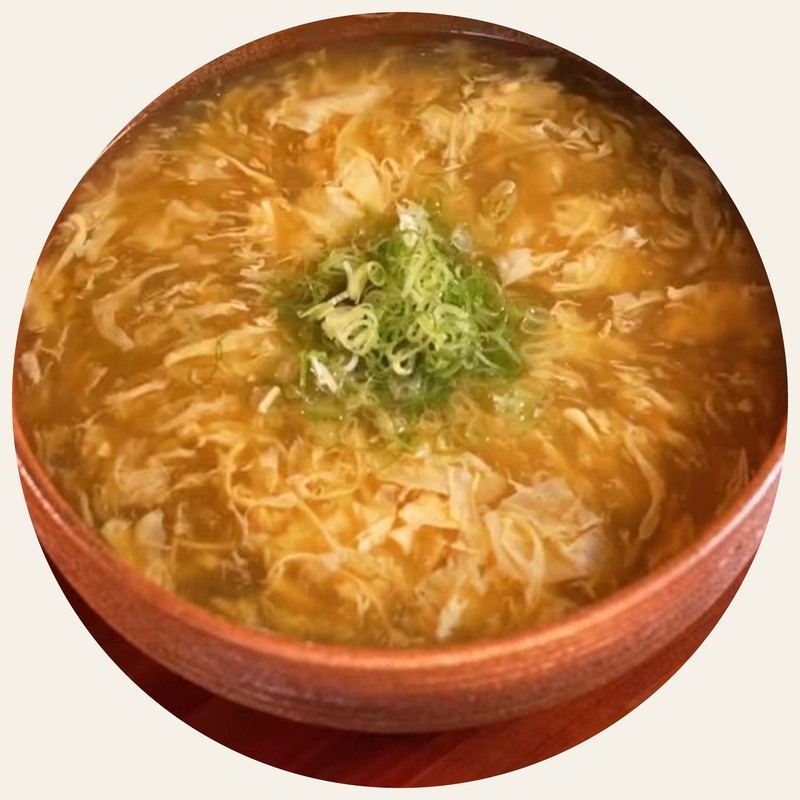
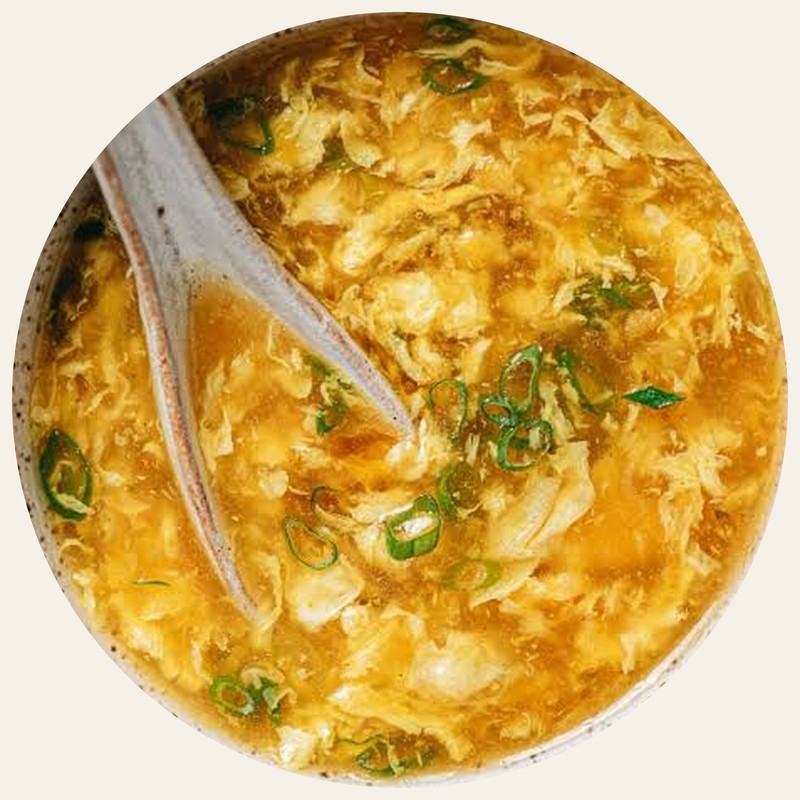
Add photos for 18 more recipes, replace two existing
Picks up the twenty loose images from ~/developer and runs them through
the same circular-cut-out pipeline, so all 25 photographed recipes share
one cream background. Kimchi ramen and egg drop soup had photos already;
both files and their alt text are replaced with the new shots.

Most sat well at the default 1.15 zoom. The three glass-served dishes
(smoothie, mango jam, custard) and the angled silken tofu plate needed
1.38-1.75 to push the surrounding table out of the circle.

Fluffy pancakes is the only recipe still without a photo.

diff --git a/index.html b/index.html
@@ -1478,6 +1478,8 @@
         difficulty: "Easy",
         icon: "soup",
         dysphagia: 3,
+        image: "assets/butternut-squash-bisque",
+        imageAlt: "A bowl of smooth orange butternut squash bisque, swirled with cream and scattered with herbs.",
         color: "#D4A574",
         ingredients: [
           { amount: "2 lbs", item: "Butternut squash, peeled and cubed", note: "Pre-cut squash works well to save time" },
@@ -1529,6 +1531,8 @@
         difficulty: "Easy",
         icon: "soup",
         dysphagia: 5,
+        image: "assets/chicken-golden-soup",
+        imageAlt: "A golden bowl of chicken soup with tiny pastina pasta, shredded chicken and fresh herbs.",
         color: "#D4A574",
         ingredients: [
           { amount: "1 lb", item: "Boneless, skinless chicken breasts" },
@@ -1581,6 +1585,8 @@
         difficulty: "Easy",
         icon: "apple",
         dysphagia: 6,
+        image: "assets/baked-cinnamon-apples",
+        imageAlt: "Soft baked cinnamon apple slices in a bowl, topped with a scoop of melting ice cream.",
         color: "#CD5C5C",
         ingredients: [
           { amount: "4 large", item: "Firm-sweet apples", note: "Honeycrisp, Fuji, or Gala work best" },
@@ -1630,6 +1636,8 @@
         difficulty: "Intermediate",
         icon: "custard",
         dysphagia: 4,
+        image: "assets/vanilla-bean-custard",
+        imageAlt: "A glass of pale vanilla custard topped with fresh strawberries, raspberries and a blueberry.",
         color: "#F4E4C1",
         ingredients: [
           { amount: "4 large", item: "Eggs" },
@@ -1681,6 +1689,8 @@
         difficulty: "Easy",
         icon: "lamb",
         dysphagia: 6,
+        image: "assets/lamb-stew-tomatoes",
+        imageAlt: "A dark, rich lamb stew in tomato sauce with tender chunks of meat.",
         color: "#8B4513",
         ingredients: [
           { amount: "2 lbs", item: "Lamb leg roast, boneless", note: "Cut into 1-inch cubes. Boneless is worth insisting on here — loose bone fragments are hard to spot in a dark tomato sauce" },
@@ -1737,6 +1747,8 @@
         difficulty: "Easy",
         icon: "soup",
         dysphagia: 3,
+        image: "assets/cream-of-mushroom-soup",
+        imageAlt: "A bowl of creamy mushroom soup topped with sauteed mushroom slices and chopped parsley.",
         color: "#8B7355",
         ingredients: [
           { amount: "10", item: "Cremini mushrooms", note: "Cleaned with a kitchen towel" },
@@ -1837,6 +1849,8 @@
         difficulty: "Intermediate",
         icon: "potato",
         dysphagia: 4,
+        image: "assets/joel-robuchon-mashed-potatoes",
+        imageAlt: "A bowl of ultra-smooth pale mashed potatoes finished with a swirled surface.",
         color: "#D6B85A",
         ingredients: [
           { amount: "1 kg", item: "Potatoes" },
@@ -1942,7 +1956,7 @@
         icon: "soup",
         dysphagia: 5,
         image: "assets/chinese-egg-drop-soup",
-        imageAlt: "A rustic bowl of golden Chinese egg drop soup with silky egg ribbons and a small pile of chopped scallions in the center.",
+        imageAlt: "A pale bowl of golden egg drop soup with silky egg ribbons and sliced scallions, a spoon resting in it.",
         color: "#C98F3A",
         ingredients: [
           { amount: "1", item: "Whole chicken or chicken pieces", note: "For the stock; a weight wasn't specified in the source" },
@@ -1994,7 +2008,7 @@
         icon: "pasta",
         dysphagia: 7,
         image: "assets/kimchi-ramen",
-        imageAlt: "A red bowl of kimchi ramen with sliced pork belly, noodles, halved soft-boiled eggs, and scallions, held in two hands.",
+        imageAlt: "A bowl of kimchi ramen in red broth with noodles, a soft egg yolk and sliced scallions.",
         color: "#B23A2E",
         ingredients: [
           { amount: "100 ml", item: "Canola oil" },
@@ -2090,6 +2104,8 @@
         difficulty: "Easy",
         icon: "beef",
         dysphagia: 6,
+        image: "assets/classic-meatloaf",
+        imageAlt: "A ketchup-glazed meatloaf, sliced to show its tender interior, garnished with parsley.",
         color: "#7A4632",
         ingredients: [
           { amount: "2 large", item: "Eggs" },
@@ -2146,6 +2162,8 @@
         difficulty: "Easy",
         icon: "pasta",
         dysphagia: 6,
+        image: "assets/stovetop-mac-and-cheese",
+        imageAlt: "A bowl of creamy stovetop macaroni cheese, glossy with sauce.",
         color: "#E3A857",
         ingredients: [
           { amount: "3 cups", item: "Macaroni or medium shell noodles" },
@@ -2191,6 +2209,8 @@
         difficulty: "Easy",
         icon: "tofu",
         dysphagia: 5,
+        image: "assets/mapo-tofu",
+        imageAlt: "Cubes of soft tofu in a glossy red mapo sauce, scattered with chopped spring onion.",
         color: "#A63A2E",
         ingredients: [
           { amount: "90 g", item: "Ground pork, minced" },
@@ -2235,6 +2255,8 @@
         difficulty: "Easy",
         icon: "tofu",
         dysphagia: 4,
+        image: "assets/chinese-silken-tofu",
+        imageAlt: "A block of silken tofu sliced into fans, topped with dark soy dressing, scallions and sesame seeds.",
         color: "#D8C9A3",
         ingredients: [
           { amount: "10.5 oz", item: "Silken tofu", note: "Soft tofu also works" },
@@ -2282,6 +2304,8 @@
         difficulty: "Easy",
         icon: "jar",
         dysphagia: 4,
+        image: "assets/mango-jam-with-yogurt",
+        imageAlt: "A glass layered with creamy white yogurt and bright orange mango jam.",
         color: "#F0A93C",
         ingredients: [
           { amount: "2 cups", item: "Fresh mango, chopped" },
@@ -2418,6 +2442,8 @@
         difficulty: "Easy",
         icon: "stew",
         dysphagia: 6,
+        image: "assets/ground-beef-curry",
+        imageAlt: "A spoonful lifted from a rich brown ground beef curry with soft potato and carrot.",
         color: "#B5762A",
         ingredients: [
           { amount: "16 oz", item: "Ground beef", note: "90/10" },
@@ -2467,6 +2493,8 @@
         difficulty: "Easy",
         icon: "egg",
         dysphagia: 5,
+        image: "assets/egg-salad",
+        imageAlt: "A bowl of soft, creamy egg salad flecked with chopped chives, with a spoon in it.",
         color: "#E8D48A",
         ingredients: [
           { amount: "8", item: "Hard-boiled eggs, peeled" },
@@ -2552,6 +2580,8 @@
         difficulty: "Easy",
         icon: "smoothie",
         dysphagia: 3,
+        image: "assets/banana-smoothie",
+        imageAlt: "A tall glass of pale, creamy banana smoothie with a striped straw.",
         color: "#E8C468",
         ingredients: [
           { amount: "1", item: "Banana" },
@@ -2592,6 +2622,8 @@
         difficulty: "Easy",
         icon: "apple",
         dysphagia: 4,
+        image: "assets/apple-sauce",
+        imageAlt: "A spoonful of smooth golden apple sauce lifted from a bowl of it.",
         color: "#C97A4A",
         ingredients: [
           { amount: "1 medium", item: "Apple", note: "5 1/2 to 6 ounces" },
@@ -2634,6 +2666,8 @@
         difficulty: "Easy",
         icon: "custard",
         dysphagia: 5,
+        image: "assets/rice-pudding",
+        imageAlt: "A bowl of creamy rice pudding dusted with cinnamon and scattered with chopped pistachio.",
         color: "#D9C9A3",
         ingredients: [
           { amount: "4 1/2 cups", item: "Whole milk", note: "1,080 mL" },
@@ -2677,6 +2711,8 @@
         difficulty: "Intermediate",
         icon: "soup",
         dysphagia: 6,
+        image: "assets/chicken-noodle-soup",
+        imageAlt: "A bowl of chicken noodle soup with shredded chicken, wide egg noodles, carrot and celery.",
         color: "#C99A5B",
         ingredients: [
           { amount: "2 tbsp", item: "Vegetable oil" },
